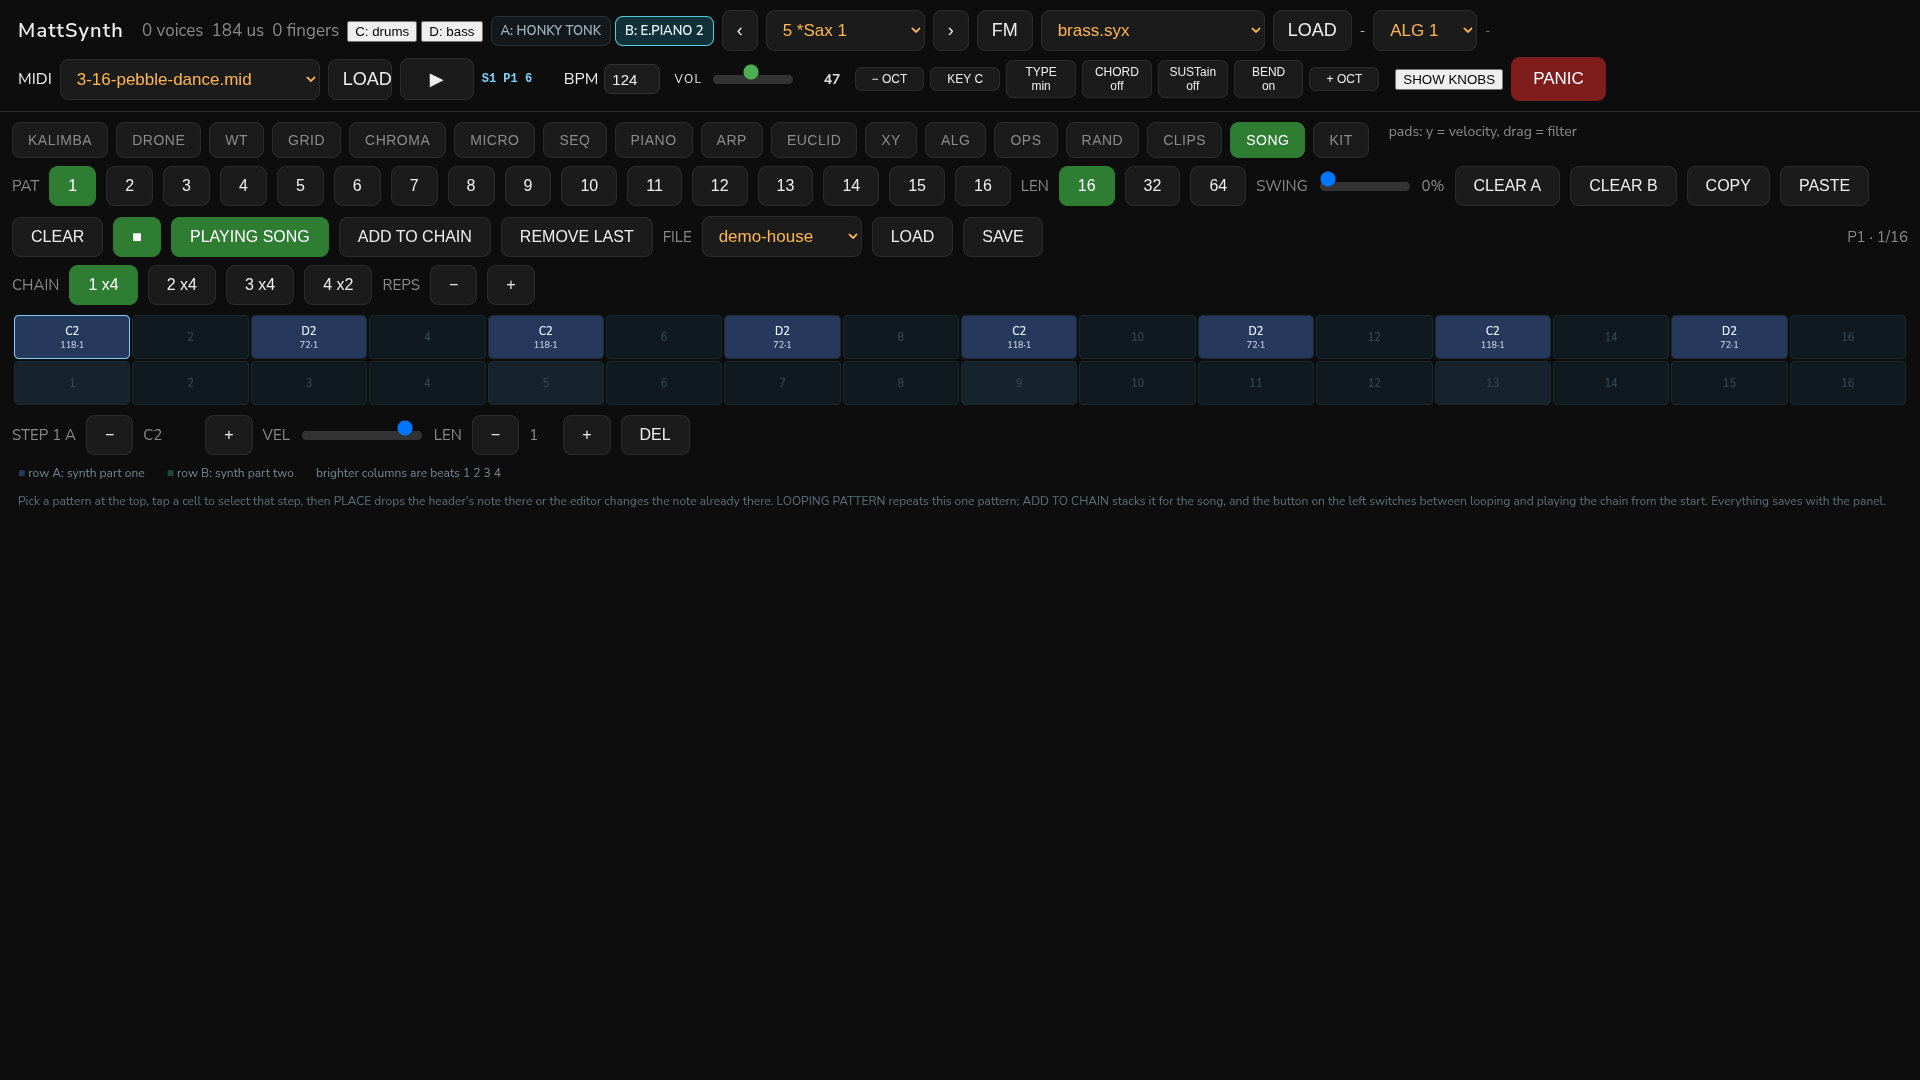
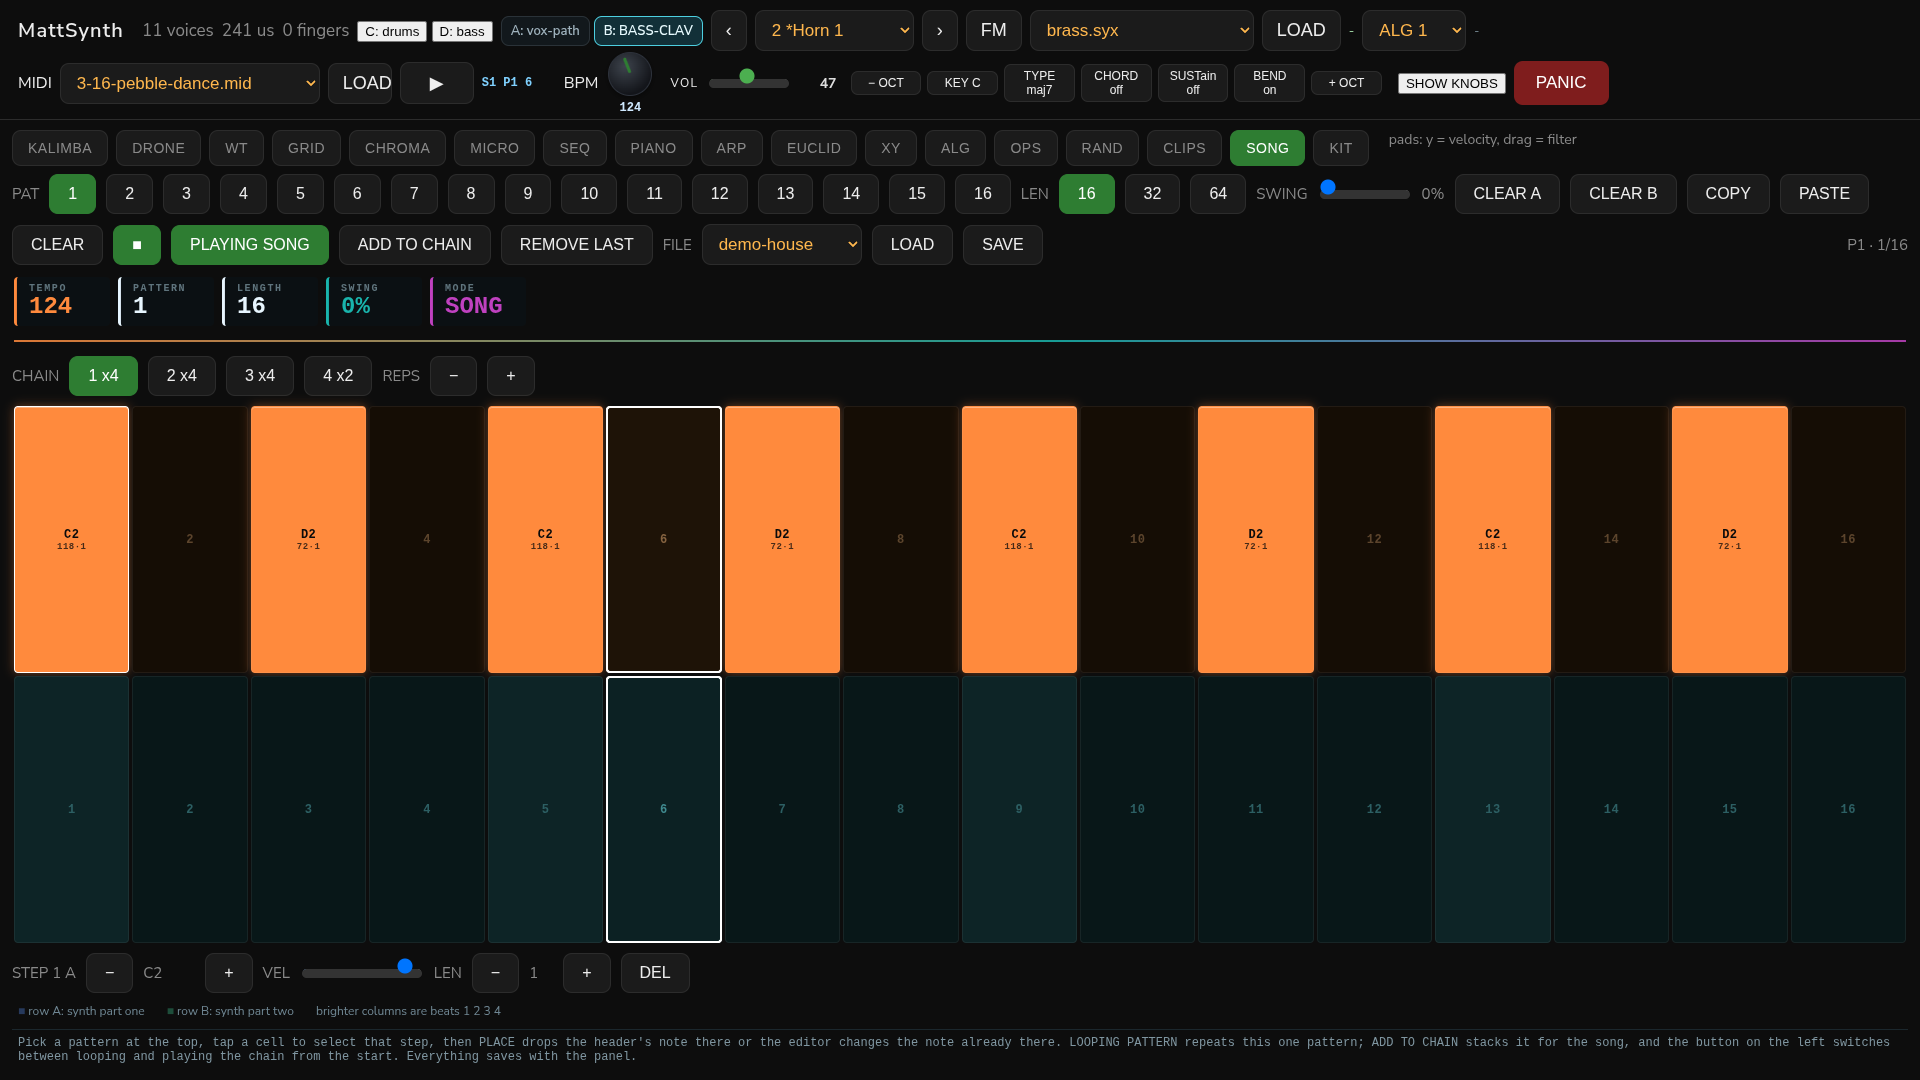
song: the screen looks like the FM-1 now
Black panel, a strip of big-number blocks for tempo, pattern, length, swing and mode, a
gradient rule under it, and chunky step blocks: orange for track A, teal for track B,
brighter on the beat, with a white outline riding the playhead. The grid fills the stage
instead of sitting at the top.

diff --git a/panel/panel_ui.py b/panel/panel_ui.py
@@ -4644,8 +4644,12 @@ function paintSongPlayhead(){
   const g = document.getElementById("sqgrid");
   if(!g) return;
   Array.from(g.querySelectorAll(".sqc")).forEach((c, i)=>{
-    const st = i % 16;
-    c.classList.toggle("now", sq.playing && st === sq.step && Math.floor(i / 16) === 0);
+    const cols = sqPat(sq.songOn ? (sq.song[sq.pat] ? sq.song[sq.pat].p : 0) : sq.cur).len;
+    const st = i % cols;
+    const live = sq.playing && st === sq.step;
+    c.style.outline = live ? "2px solid #ffffff" : "";
+    c.style.outlineOffset = live ? "-2px" : "";
+    c.style.filter = live ? "brightness(1.45)" : "";
   });
 }
 
@@ -4756,6 +4760,35 @@ function buildSong(){
   bar.appendChild(pos);
   wrap.appendChild(bar);
 
+  /* the readout strip: big numbers in blocks, the way the FM-1 shows tempo and position */
+  const strip = document.createElement("div");
+  strip.style.cssText = "display:flex;gap:8px;align-items:stretch;padding:4px 2px;";
+  const block = (label, value, accent)=>{
+    const b = document.createElement("div");
+    b.style.cssText = "min-width:96px;padding:6px 12px;border-radius:4px;background:#0b1013;" +
+      "border-left:3px solid " + accent + ";";
+    const l = document.createElement("div");
+    l.style.cssText = "font:600 10px ui-monospace,monospace;letter-spacing:.16em;color:#5f747d";
+    l.textContent = label;
+    const v = document.createElement("div");
+    v.style.cssText = "font:700 24px ui-monospace,monospace;color:" + accent + ";line-height:1.1";
+    v.textContent = value;
+    v.dataset.role = label.toLowerCase();
+    b.appendChild(l); b.appendChild(v);
+    strip.appendChild(b);
+    return v;
+  };
+  block("TEMPO", String(bpm | 0), "#ff8a3d");
+  block("PATTERN", String(sq.cur + 1), "#e8f6ff");
+  block("LENGTH", String(pat.len), "#e8f6ff");
+  block("SWING", (pat.swing || 0) + "%", "#19b4ac");
+  block("MODE", sq.songOn ? "SONG" : "LOOP", sq.songOn ? "#c041c0" : "#19b4ac");
+  wrap.appendChild(strip);
+
+  const rule = document.createElement("div");
+  rule.style.cssText = "height:2px;margin:2px 2px 6px;background:linear-gradient(90deg,#ff8a3d,#19b4ac 55%,#c041c0);opacity:.85";
+  wrap.appendChild(rule);
+
   if(sq.song.length){
     const ch = document.createElement("div"); ch.className = "seqbar"; ch.style.flexWrap = "wrap";
     ch.appendChild(lab("CHAIN"));
@@ -4777,7 +4810,8 @@ function buildSong(){
 
   const grid = document.createElement("div");
   grid.id = "sqgrid";
-  grid.style.cssText = "display:grid;grid-template-columns:repeat(" + pat.len + ",1fr);gap:2px;padding:2px;";
+  grid.style.cssText = "display:grid;grid-template-columns:repeat(" + pat.len + ",1fr);gap:3px;" +
+    "padding:2px;flex:1 1 auto;min-height:0;grid-auto-rows:1fr;";
   for(let part = 0; part < 2; part++){
     for(let st = 0; st < pat.len; st++){
       const c = document.createElement("div");
@@ -4785,12 +4819,17 @@ function buildSong(){
       const sel = sq.sel.s === st && sq.sel.part === part;
       c.className = "sqc";
       c.dataset.s = st; c.dataset.p = part;
-      c.style.cssText = "height:44px;border-radius:5px;display:flex;flex-direction:column;" +
-        "align-items:center;justify-content:center;font:600 11px system-ui;cursor:pointer;" +
-        "user-select:none;border:1px solid " + (sel ? "#7fd1ff" : "#1b2a30") + ";" +
-        "background:" + (hit ? (part ? "#1d4d3a" : "#26395c")
-                              : (st % 4 === 0 ? "#16222c" : "#101920")) + ";" +
-        "color:" + (hit ? "#e8f6ff" : "#33454f") + ";";
+      /* track A is the orange row, track B the teal one, like the FM-1 screen */
+      const onCol  = part ? "#19b4ac" : "#ff8a3d";
+      const offCol = part ? (st % 4 === 0 ? "#0d2426" : "#081718")
+                          : (st % 4 === 0 ? "#241708" : "#150d05");
+      c.style.cssText = "min-height:34px;border-radius:4px;display:flex;flex-direction:column;" +
+        "align-items:center;justify-content:center;font:700 12px ui-monospace,monospace;" +
+        "letter-spacing:.04em;cursor:pointer;user-select:none;" +
+        "border:1px solid " + (sel ? "#ffffff" : "rgba(255,255,255,.06)") + ";" +
+        "background:" + (hit ? onCol : offCol) + ";" +
+        "color:" + (hit ? "#0a0a0a" : (part ? "#2c5f63" : "#5c442c")) + ";" +
+        "box-shadow:" + (hit ? "0 0 10px " + onCol + "66, inset 0 1px 0 rgba(255,255,255,.35)" : "none") + ";";
       if(hit){
         c.textContent = NOTE[hit.n % 12] + (Math.floor(hit.n / 12) - 1);
         const sm = document.createElement("small");
@@ -4854,6 +4893,7 @@ function buildSong(){
 
   const hint = document.createElement("div");
   hint.style.cssText = "padding:2px 6px 8px;color:#5a6f7a;font:12px system-ui;line-height:1.45;";
+  hint.style.cssText = "padding:6px;border-top:1px solid #1b272d;color:#7f96a1;font:12px ui-monospace,monospace;";
   hint.textContent =
     "Pick a pattern at the top, tap a cell to select that step, then PLACE drops the header's note there " +
     "or the editor changes the note already there. LOOPING PATTERN repeats this one pattern; " +
